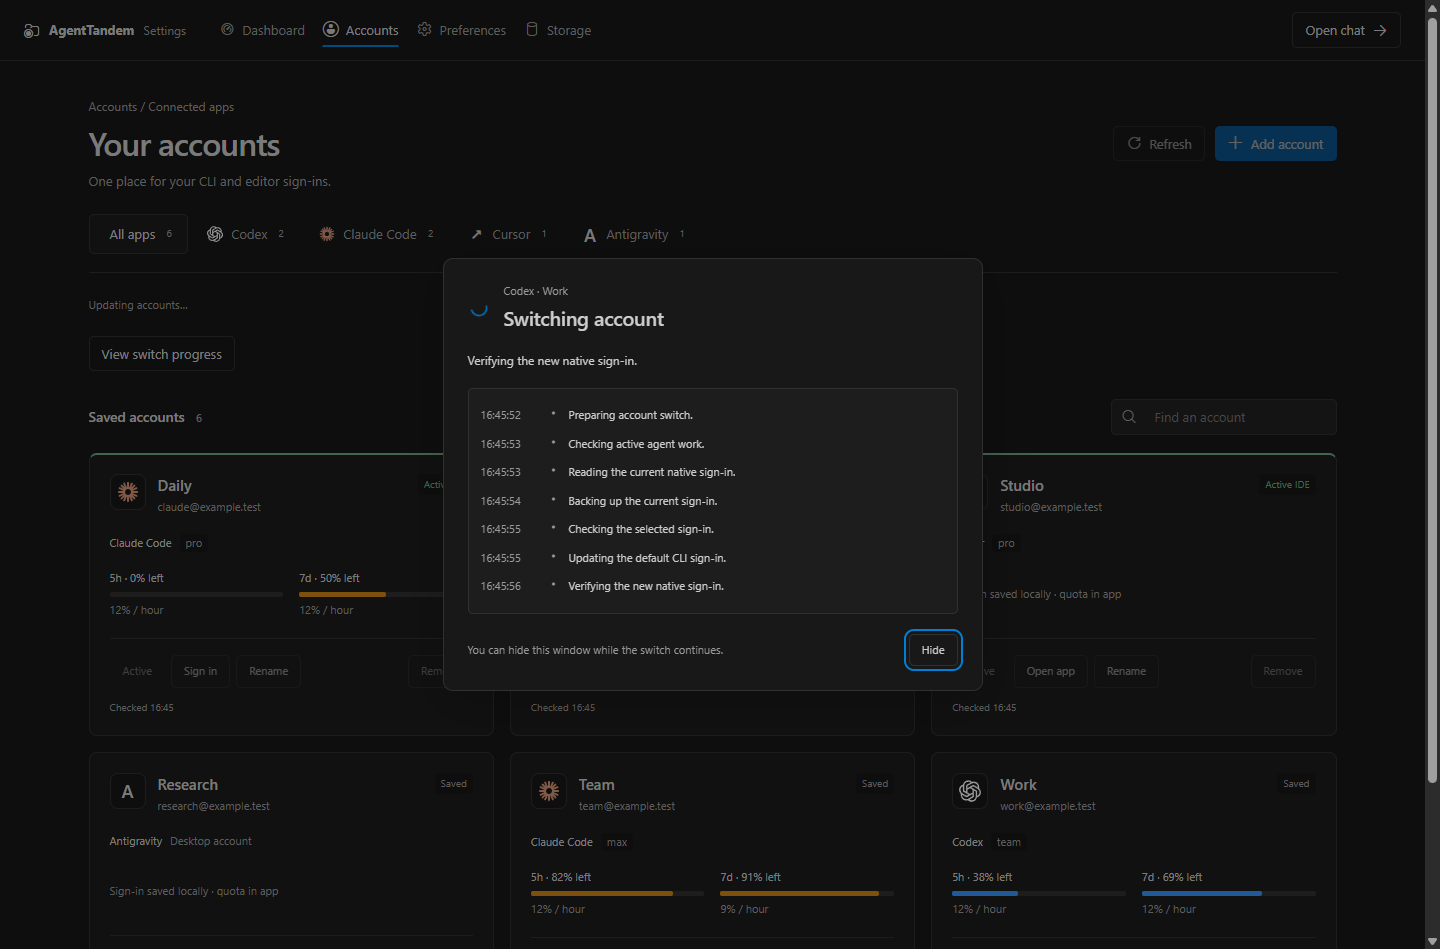
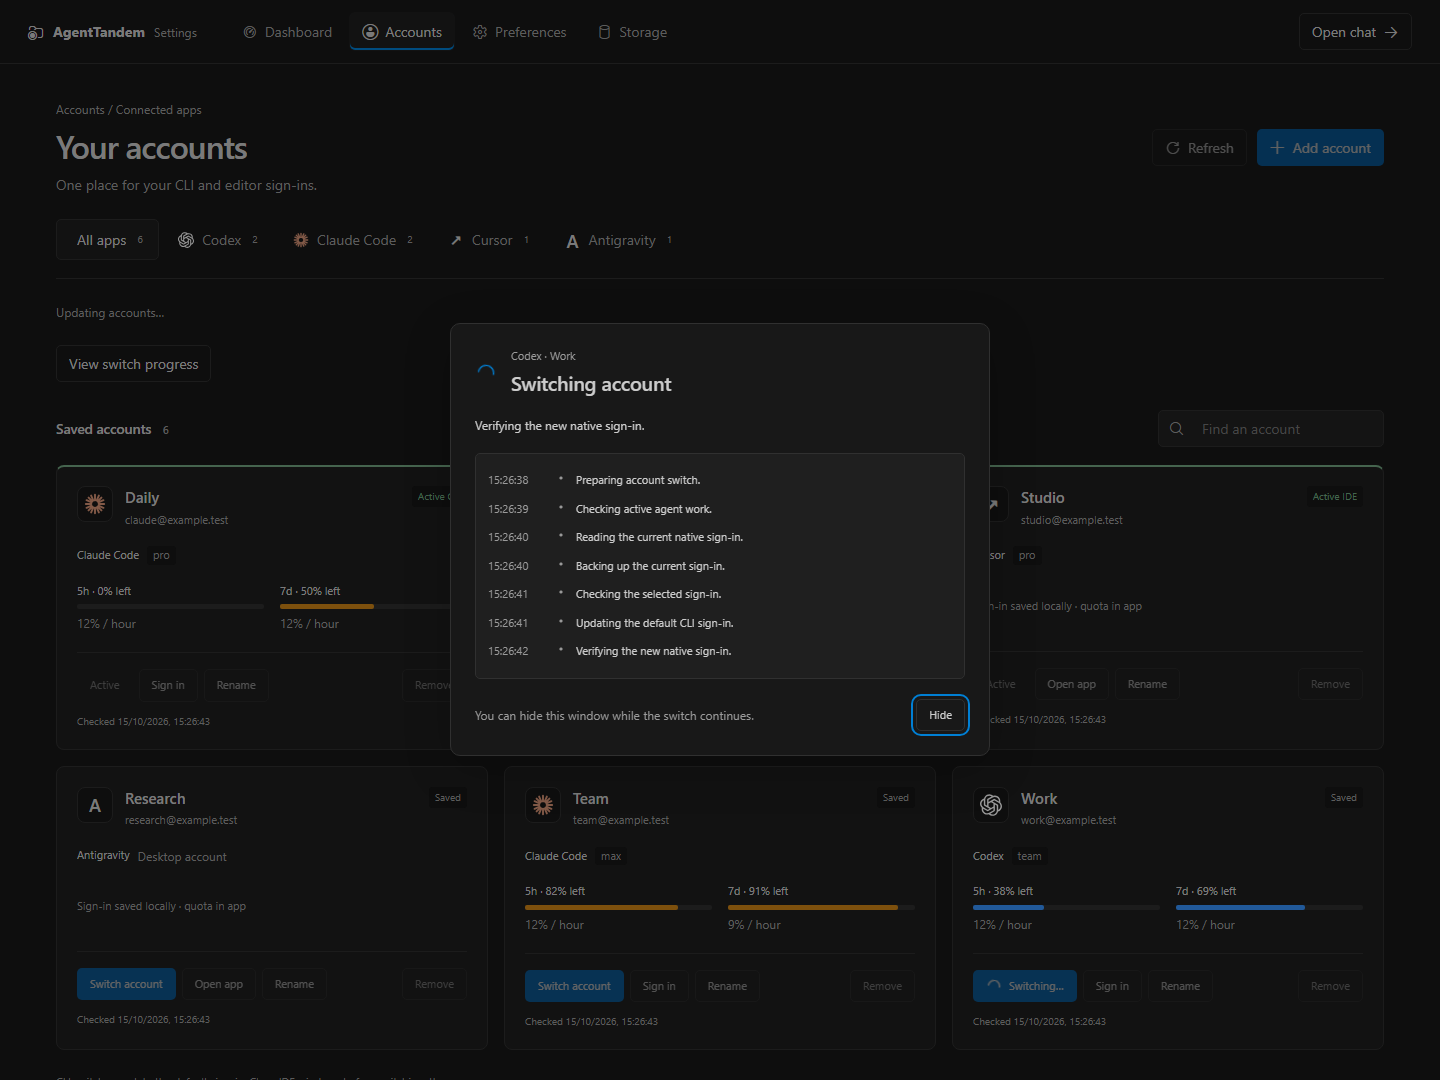
docs: update README with enhanced features and usage instructions; add new screenshots for account management and dashboard

diff --git a/README.md b/README.md
@@ -1,76 +1,147 @@
 <p align="center"><img src="media/icon.png" width="96" height="96" alt="AgentTandem icon"></p>
 
 <h1 align="center">AgentTandem</h1>
-<p align="center">Review code changes, chat with Claude Code and Codex, and track usage inside VS Code.</p>
+<p align="center">Chat with Claude Code and Codex, review saved changes, manage accounts and track tokens — inside VS Code.</p>
 
-## How to use
+Keep working in your native agent or use the built-in chat. AgentTandem brings saved file changes, conversation history, account switching and usage into one workspace companion.
 
-1. Open your project and select **AgentTandem** in the Activity Bar.
-2. Check **Tracking on** in the status bar before asking your agent to edit. If it is off, click it, choose **Resume tracking**, and wait until tracking is ready.
-3. Work in your usual agent tool or AgentTandem chat, then save your changes.
-4. Open **Review**, select a changed file, and inspect its diff. **Accept** keeps the code and marks it reviewed; **Reject / Revert** restores the saved baseline. Accept does not create a Git commit.
+| Feature | What you can do |
+| --- | --- |
+| Code and image review | Compare saved snapshots, accept or reject individual blocks, navigate files and undo the latest revert. |
+| Chat and history | Run Codex or Claude Code, resume project conversations, attach files and queue follow-ups. |
+| Account management | Save and switch Codex, Claude Code, Cursor and Antigravity sign-ins. |
+| Token dashboard | Explore account, model and conversation totals, cache usage and estimated API costs. |
+| Live quota | See remaining allowance, reset times, observed burn rate and quota estimates. |
+| Checkpoints and storage | Preview code restores and choose which saved restore history to keep. |
 
-Tracking captures saved, non-ignored files, including manual edits. It cannot reconstruct changes made before tracking starts. Checkpoints are recorded for turns started in AgentTandem.
+## Get started
 
-### WSL and remote workspaces
+1. Install **AgentTandem** in VS Code and open your project. For chat, install and sign in to the Codex or Claude Code CLI you want to use.
+2. Select **AgentTandem** in the Activity Bar. Check **Tracking on** in the status bar before asking an agent to edit. If tracking is off, click it, choose **Resume tracking** and wait until it is ready.
+3. Work in your usual agent tool, or select **+** to start a built-in chat. **Manage CLIs** lets you choose an installed CLI.
+4. Save your changes, open **Review** and select a file. **Accept** keeps the code and marks it reviewed; **Reject / Revert** restores the saved baseline. Accept does not create a Git commit.
 
-Install AgentTandem in the WSL/SSH workspace so it can access that environment's files and signed-in Codex/Claude CLIs. After switching from a local development VSIX to the Marketplace extension, uninstall `agent-tandem-local.agent-tandem` in that environment and run **Developer: Reload Window**. Keep one AgentTandem extension enabled: both builds share commands and views. Uninstalling the extension keeps its saved data.
+Tracking captures saved, non-ignored files, including manual edits. It cannot reconstruct changes made before tracking starts. Running agents requires a trusted workspace and an authenticated CLI.
 
-## Review changes
+## Review code and images
 
-Select a conversation group to browse its changed files. Use the arrows for changes/files and **Accept all** for the current file. **…** holds Refresh, Native diff and conversation details. Images show saved **Before / After** versions with whole-file actions.
+Review opens with changed files grouped by conversation. Shared and unassigned changes stay visible when their source cannot be established. Select a file to compare immutable before/after snapshots in the bundled Monaco editor, with syntax highlighting, search and inline actions.
 
-![AgentTandem review panel with conversation groups](media/screenshots/review.png)
+- **Accept / Reject** acts on an individual change block; **Accept all** keeps all changes in the current file.
+- **Previous / Next change** and **Previous / Next file** move through the review. Use the file picker to jump directly to another file.
+- File and conversation **Revert** actions preview their scope. **Undo** recovers the latest file, group or block revert.
+- **…** contains Refresh, Native diff and conversation details. Images show saved **Before / After** versions with whole-file actions.
 
-![AgentTandem Monaco diff with syntax highlighting, colored inline buttons and file navigation](media/screenshots/editor-diff.png)
+![Review panel grouping saved changes by Codex and Claude conversations, with shared and unassigned files](media/screenshots/review.png)
 
-![AgentTandem image diff showing saved Before and After artwork with whole-file Accept and Reject actions](media/screenshots/image-diff.png)
+![Monaco code review with syntax highlighting, inline Accept and Reject actions and file navigation](media/screenshots/editor-diff.png)
 
-![AgentTandem review with the agent change list and a shortcut to its conversation](media/screenshots/agent-changes.png)
-
-## Chat and history
-
-Select **+**, choose **Codex** or **Claude Code** and a model, then send a message. Attach files or queue follow-ups while the agent works. Use **Manage CLIs** to select your local, signed-in CLI.
-
-Open **History** to find and resume project conversations. **Edit and resend** branches an earlier message; **Restore** previews a saved AgentTandem checkpoint.
-
-![AgentTandem chat with model controls and pending changes](media/screenshots/chat.png)
-
-![Project history with Codex and Claude conversations](media/screenshots/history.png)
+![Saved Before and After image comparison with whole-file review actions](media/screenshots/image-diff.png)
 
 ## Manage accounts
 
-Open **AgentTandem: Manage Accounts** for **Codex, Claude Code, Cursor or Antigravity**.
+Run **AgentTandem: Manage Accounts**, or open **Settings → Accounts**. Filter by app and search saved profiles for **Codex, Claude Code, Cursor and Antigravity**.
 
-For a quick switch, click quota in the status bar. The popup lists accounts with remaining quota; select an account to switch and follow its progress there. **Open dashboard** and **Manage accounts** are separate menu items.
+1. Select **Add account** and choose an app. For Codex or Claude Code, sign in through the native CLI, **Save current sign-in**, or **Import JSON**. For Cursor or Antigravity, open the installed app, sign in there and save its current sign-in.
+2. Select **Switch account** to update the default CLI or IDE sign-in. Finish active agent turns first; close Cursor/Antigravity windows before switching and reopen the app afterward.
+3. Follow the progress dialog and timestamped log. **Hide** keeps the operation running; **View switch log** reopens the latest result. The switch saves the outgoing sign-in, verifies the selected identity and attempts rollback if verification fails.
 
-1. Select **Add account**, choose an app, then sign in or **Save current sign-in**. You can also **Import JSON**.
-2. Filter by app or search your saved accounts. Select **Switch account** to change the default CLI/IDE sign-in; finish active turns and close IDE windows first.
-3. Follow the switch modal's loading status and timestamped log. **Hide** keeps the switch running; **View switch log** reopens its result. Reopen the IDE after switching.
+![Account manager with app filters, search and fictional Codex, Claude Code, Cursor and Antigravity profiles](media/screenshots/accounts.png)
 
-![Account management with app filters, search and saved Codex, Claude Code, Cursor and Antigravity profiles using fictional accounts](media/screenshots/accounts.png)
+Click a provider's quota in the VS Code status bar for **quick account switching**, remaining quota and reset details. **Open dashboard** and **Manage accounts** are separate shortcuts. In the dashboard, **View usage** selects an account's statistics without switching its sign-in.
 
-![Account switch progress modal with timestamped steps using a fictional Codex Work profile](media/screenshots/account-switch.png)
+Saved credentials stay in local native-auth profile storage and are not sent to the webview or included in switch logs. Removing a saved profile keeps the default native sign-in and conversation history. Cursor/Antigravity quota stays in the native app; Antigravity 2 OS-vault switching currently supports Windows.
 
-Cursor/Antigravity quota stays in their app.
+<details>
+<summary>Account switch progress</summary>
 
-## Usage and storage
+![Account switch dialog with timestamped steps for a fictional Codex Work profile](media/screenshots/account-switch.png)
 
-Open **Settings → Preferences → Status bar** to choose both agents, the selected chat agent, Codex or Claude Code. Choose which quota, reset countdown, banked resets, account and plan details to show, all quota windows or the first two, and the left or right side. The preview uses your current account data; hover always keeps full quota and reset details.
+</details>
 
-**Appearance** offers compact icons with quota (default), icons only, or full text. Codex uses a terminal icon and Claude Code a sparkle; `↻ 3` means three banked resets. Icons-only mode keeps agent names and full details in hover and screen-reader labels.
+## Token and usage dashboard
 
-Run **AgentTandem: Open Settings and Usage Dashboard** to view usage **By account**. Select **View usage** for account details or **All accounts** for combined totals. Filter by date, provider or model. Estimates are separate from subscription billing.
+Run **AgentTandem: Open Settings and Usage Dashboard**, or use **Dashboard** below chat. The dashboard opens on **By account** and **Today**. Choose **View usage** on an account card, or select **All accounts** for combined local Codex and Claude totals across projects.
 
-Select a **Conversation** to inspect its tokens, cache, models and cost. **Quota burn** shows observed % per hour and projected exhaustion.
+![Dashboard account overview with local token totals, saved profiles and live quota](media/screenshots/dashboard.png)
 
-Open **Storage** to inspect snapshots, select restore history and preview cleanup before deleting it.
+Filter by **provider, account, model and date range**, including custom dates. Group activity by **day, week or month**. Inspect input, output, cache reads/writes, requests, provider/model breakdowns and daily activity. Search **Conversations** and select a row for its token, cache, model and cost details.
 
-![AgentTandem dashboard showing provider account activity](media/screenshots/dashboard.png)
+| Source | What it shows |
+| --- | --- |
+| **API** | Native account quota and, when supported, Codex account token activity: lifetime tokens, peak day, turn duration, streaks and returned daily totals. |
+| **Local** | Deduplicated token counts recorded in local Codex and Claude history across projects, including archived and subagent sessions. |
+| **Estimate** | API-equivalent USD cost, tokens per 1% quota and projected reset-cycle capacity. These are estimates, not subscription charges or invoices. |
 
-![AgentTandem Storage with snapshot categories and restore history](media/screenshots/storage.png)
+![Token dashboard with separate API activity, local input/output/cache totals, model activity and account quota](media/screenshots/token-dashboard.png)
 
-*Screenshots show the actual interface with demonstration data. Account names, emails and switch logs are fictional.*
+**API activity and Local totals are displayed separately and never added together.** Codex API activity depends on CLI/account support; Claude token details come from local history. Model filters apply to Local usage. Missing API metrics remain unavailable, and unknown model prices remain **Unpriced**.
+
+Account attribution preserves native per-turn evidence. Older Codex history may be labeled **Inferred from session creator**; unmatched history stays **Unknown account**. **Assign history to an account** lets you confirm a conversation/date range or keep it unknown without rewriting native transcripts.
+
+**Quota burn-down** shows observed usage pace and projected exhaustion. **Tokens per 1% quota** and reset-cycle comparisons use observed account/reset data, with API, Local and Device estimates kept separate. Other devices and incomplete history can affect these estimates. Local totals cover recorded history on this machine; they cannot include deleted or unlogged usage elsewhere.
+
+Refreshing reads quota and usage without sending an inference prompt. An open dashboard refreshes every minute and reuses a token-only history cache.
+
+## Chat, history and checkpoints
+
+Select **+**, choose **Codex** or **Claude Code**, then choose a model and access mode. Models come from the selected installed CLI. Reasoning effort appears where supported; Codex also offers a per-project **Fast mode** toggle.
+
+- Stream replies and tool activity, respond to approvals and stop an active turn from the panel.
+- Paste images, drag files into the composer or use the paperclip. Preview and remove attachments before sending; attachment-only messages are supported.
+- Queue follow-ups while the agent works. Edit, delete, pause or resume the queue; saved queues require Resume after reloading.
+- Open **History** to search and resume project conversations from either provider. **Edit and resend** branches an earlier message while preserving the original conversation and current files.
+- **Restore code** previews a checkpoint saved before a turn started in AgentTandem. **Undo restore** recovers the code from before the latest restore. External CLI messages and older history may have no checkpoint.
+
+![Built-in chat with model and access controls, context usage and pending file changes](media/screenshots/chat.png)
+
+<details>
+<summary>Project history and review shortcuts</summary>
+
+![Project conversation history with Codex and Claude Code sessions](media/screenshots/history.png)
+
+![Code review with its changed-file list and shortcut to the source conversation](media/screenshots/agent-changes.png)
+
+</details>
+
+## Status bar and preferences
+
+Open **Settings → Preferences** to show both agents, the selected chat agent, Codex only or Claude Code only. Choose compact icons with quota, icons only or full text; select quota windows, reset countdowns, banked resets, account/plan details and left/right placement. Hover retains full details in every style. `↻ 3` means three banked resets.
+
+<details>
+<summary>Status bar preferences</summary>
+
+![Status bar preferences with provider, appearance, quota-window and visible-detail controls](media/screenshots/preferences.png)
+
+</details>
+
+## Storage and restore history
+
+Open **Settings → Storage** to inspect the extension data folder and storage categories. Filter saved restore history by project/type, select entries and **Review deletion** before removing them.
+
+**Preview cleanup** lists unused snapshots and blobs older than 24 hours. Cleanup rechecks references before deleting; tracking baselines, pending review, active captures, retained checkpoints and Undo remain protected. Workspace files and native Codex/Claude conversation history stay intact. Deleting selected restore history removes the ability to restore those checkpoints.
+
+<details>
+<summary>Storage manager</summary>
+
+![Storage categories and saved restore history with selection and deletion preview controls](media/screenshots/storage.png)
+
+</details>
+
+## WSL and remote workspaces
+
+Install AgentTandem in the **WSL/SSH workspace** so it can access that environment's files and signed-in CLIs. After switching from a local development VSIX to the Marketplace extension, uninstall `agent-tandem-local.agent-tandem` in that environment and run **Developer: Reload Window**. Keep one AgentTandem extension enabled: both builds share commands and views. Uninstalling the extension keeps its saved data.
+
+## Keyboard shortcuts
+
+| Shortcut | Action |
+| --- | --- |
+| `Enter` / `Shift+Enter` | Send a chat message or queue a follow-up / insert a newline |
+| `Alt+Y` / `Alt+N` | Accept / reject the current change in an active review editor |
+| `Alt+Up` / `Alt+Down` | Previous / next change |
+| `Alt+PageUp` / `Alt+PageDown` | Previous / next changed file |
+
+*Screenshots capture the current interface with demonstration data. Account names, emails, token counts, quota values and switch logs are fictional.*
 
 See [Contributing](CONTRIBUTING.md), [Development](docs/DEVELOPMENT.md) and [Release notes](CHANGELOG.md).
 
